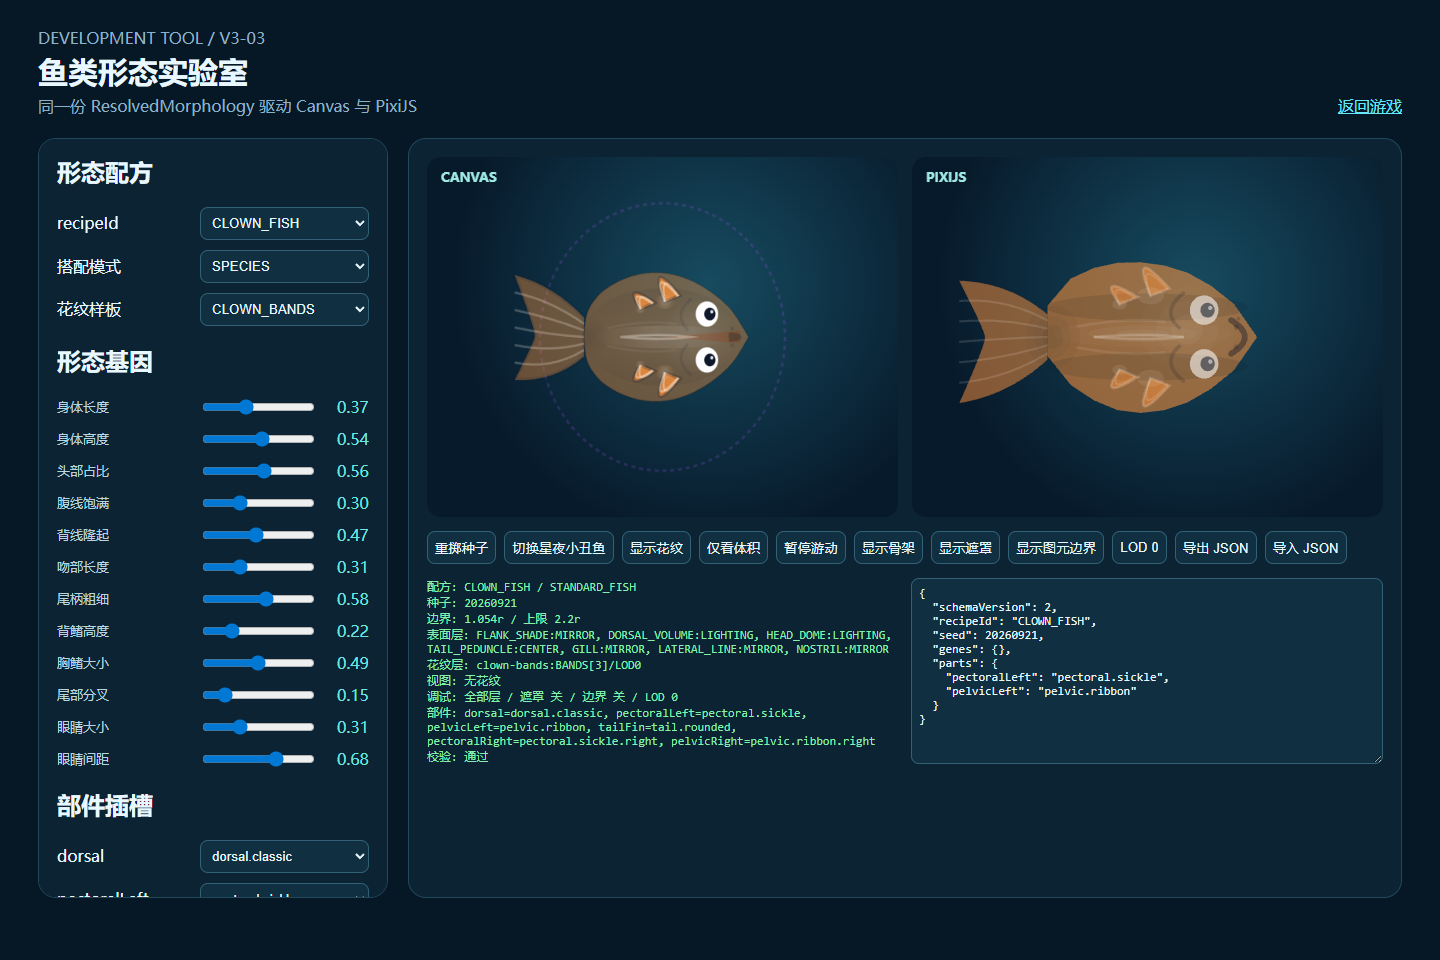
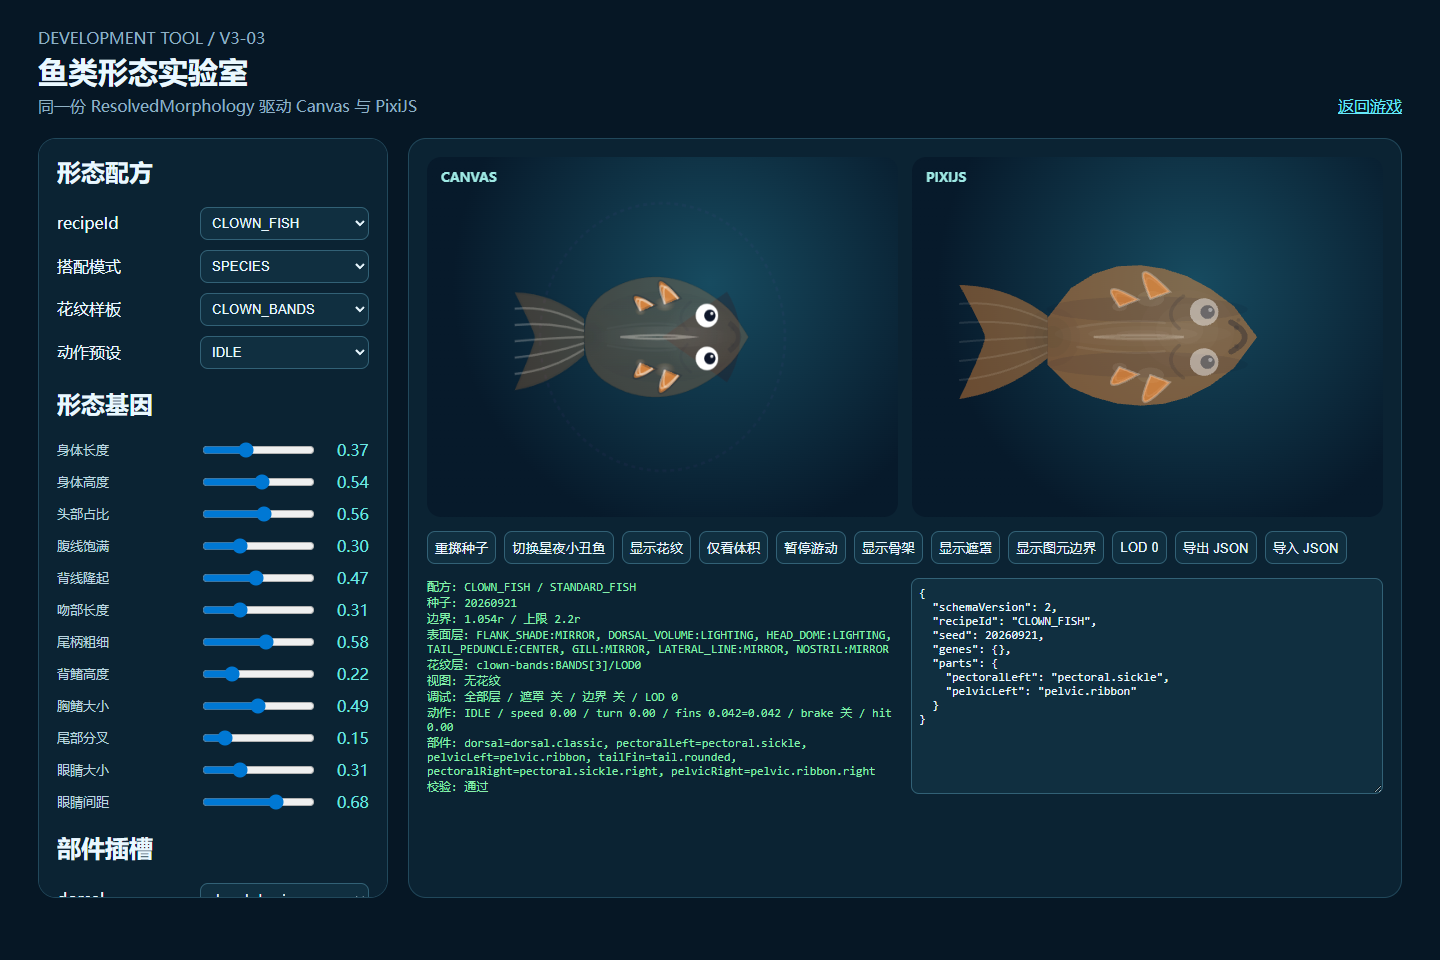
。。。

diff --git a/src/morphology/MorphologyLab.ts b/src/morphology/MorphologyLab.ts
@@ -6,6 +6,7 @@ import { CreatureDisplay, type LodTextureAsset } from '../rendering/pixi/Creatur
 import { MORPHOLOGY_PARTS } from './registry';
 import { PATTERN_SAMPLE_MATERIALS } from './materials/patternGrammar';
 import { resolveMorphology } from './resolveMorphology';
+import { resolveMorphologyMotion } from './motion/resolveMotionState';
 import type { FishAppearanceV2, MorphologyGene, PartSlot } from './types';
 
 const geneLabels: Record<MorphologyGene, string> = {
@@ -42,6 +43,18 @@ let soloLayerId: string | undefined;
 let showPattern = true;
 let volumeOnly = false;
 let rareVariant = true;
+type MotionPreset = 'IDLE' | 'CRUISE' | 'TURN' | 'BRAKE' | 'BOOST' | 'HIT';
+let motionPreset: MotionPreset = 'IDLE';
+
+const applyMotionPreset = (preset: MotionPreset) => {
+  motionPreset = preset; fish.angle = 0; fish.vy = 0; fish.speedBoostTimer = 0; fish.hitReactionTimer = 0; fish.isIdle = false;
+  if (preset === 'IDLE') { fish.vx = 0; fish.isIdle = true; }
+  else if (preset === 'CRUISE') fish.vx = fish.speed;
+  else if (preset === 'TURN') { fish.vx = 0; fish.vy = fish.speed; }
+  else if (preset === 'BRAKE') fish.vx = fish.speed * 0.15;
+  else if (preset === 'BOOST') { fish.vx = fish.speed * 1.8; fish.speedBoostTimer = 60; }
+  else { fish.vx = 0; fish.isIdle = true; fish.hitReactionTimer = 8; }
+};
 
 const geneInputs = new Map<MorphologyGene, HTMLInputElement>();
 // 成对插槽只编辑左侧定义；解析器会生成并校验右侧镜像。
@@ -88,6 +101,13 @@ const renderControls = () => {
     renderControls(); refreshJson();
   });
   patternRow.append(patternSelect); controls.append(patternRow);
+  const motionRow = document.createElement('div'); motionRow.className = 'selectrow'; motionRow.innerHTML = '<label>动作预设</label>';
+  const motionSelect = document.createElement('select'); motionSelect.id = 'motion-preset-select';
+  for (const preset of ['IDLE', 'CRUISE', 'TURN', 'BRAKE', 'BOOST', 'HIT'] as const) {
+    const option = new Option(preset, preset); option.selected = motionPreset === preset; motionSelect.add(option);
+  }
+  motionSelect.addEventListener('change', () => applyMotionPreset(motionSelect.value as MotionPreset));
+  motionRow.append(motionSelect); controls.append(motionRow);
   controls.insertAdjacentHTML('beforeend', '<h2>形态基因</h2>');
   const resolved = resolveMorphology(fish);
   for (const [key, label] of Object.entries(geneLabels) as [MorphologyGene, string][]) {
@@ -214,6 +234,7 @@ const frame = (time: number) => {
     },
   } : fish;
   const morphology = resolveMorphology(previewFish);
+  const motion = resolveMorphologyMotion(previewFish, morphology);
   ctx.clearRect(0, 0, canvas.width, canvas.height);
   drawCuteFish(ctx, previewFish, frozenTime / 16.667, false, { showPattern, volumeOnly, lod });
   if (showMask || showBounds) {
@@ -256,6 +277,7 @@ const frame = (time: number) => {
     `花纹层: ${morphology.patternLayers.map(layer => `${layer.id}:${layer.kind}[${layer.primitives.length}]/LOD${layer.lodPriority}`).join(', ') || 'NONE'}`,
     `视图: ${volumeOnly ? '仅体积' : showPattern ? '完整外观' : '无花纹'}`,
     `调试: ${soloLayerId ? `仅层 ${soloLayerId}` : '全部层'} / 遮罩 ${showMask ? '开' : '关'} / 边界 ${showBounds ? '开' : '关'} / LOD ${lod}`,
+    `动作: ${motionPreset} / speed ${motion.speedRatio.toFixed(2)} / turn ${motion.turn.toFixed(2)} / fins ${motion.leftFin.toFixed(3)}=${motion.rightFin.toFixed(3)} / brake ${motion.braking ? '开' : '关'} / hit ${motion.hitReaction.toFixed(2)}`,
     `部件: ${Object.entries(morphology.parts).map(([slot, id]) => `${slot}=${id}`).join(', ')}`,
     morphology.warnings.length ? `警告:\n${morphology.warnings.join('\n')}` : '校验: 通过',
   ].join('\n');
